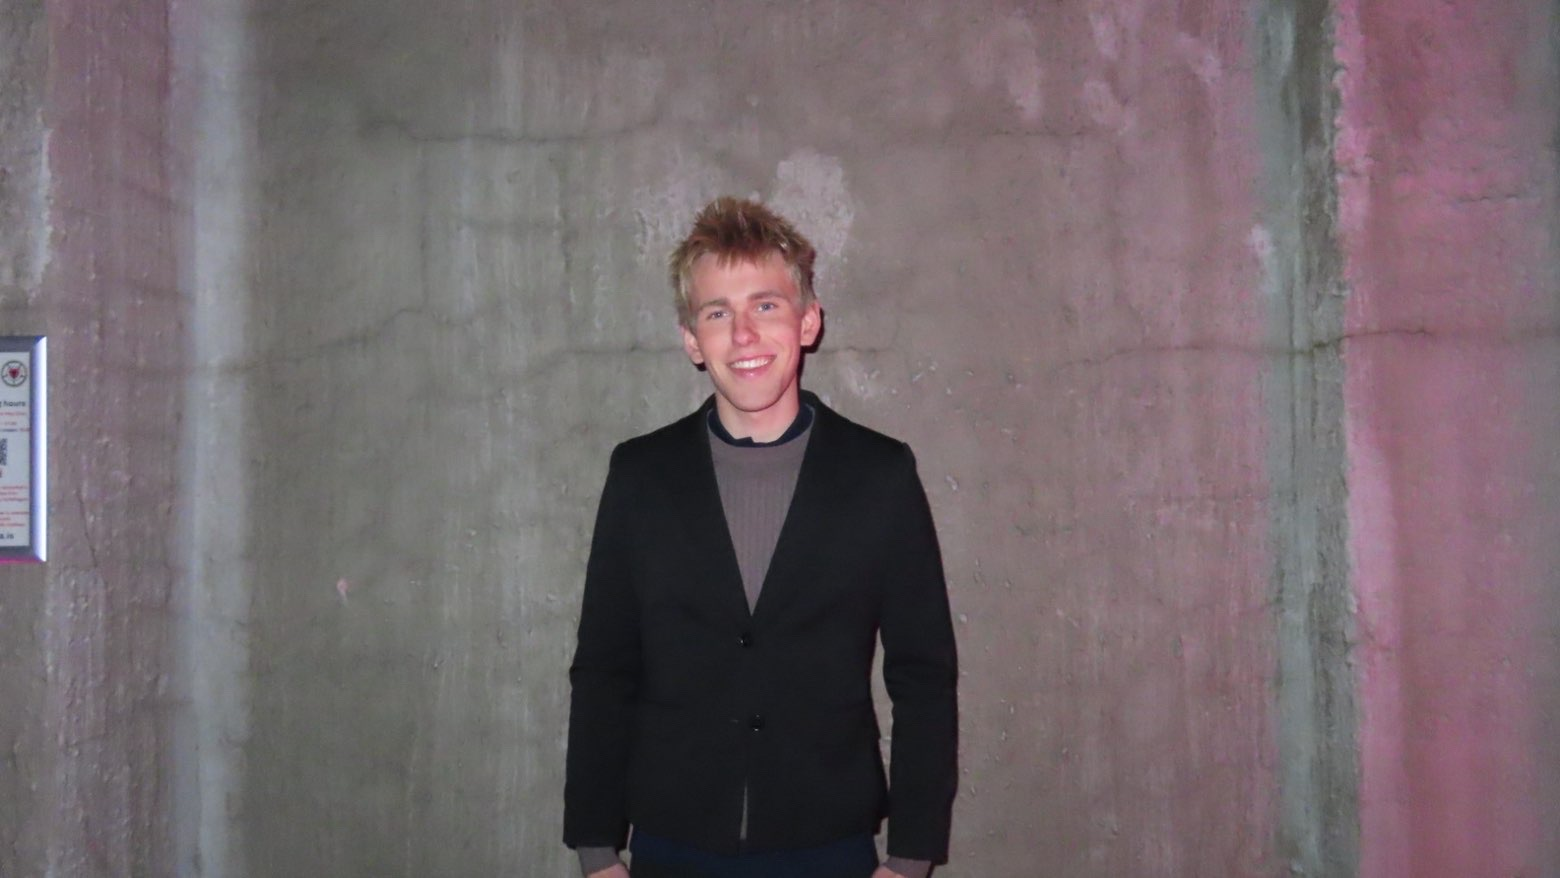
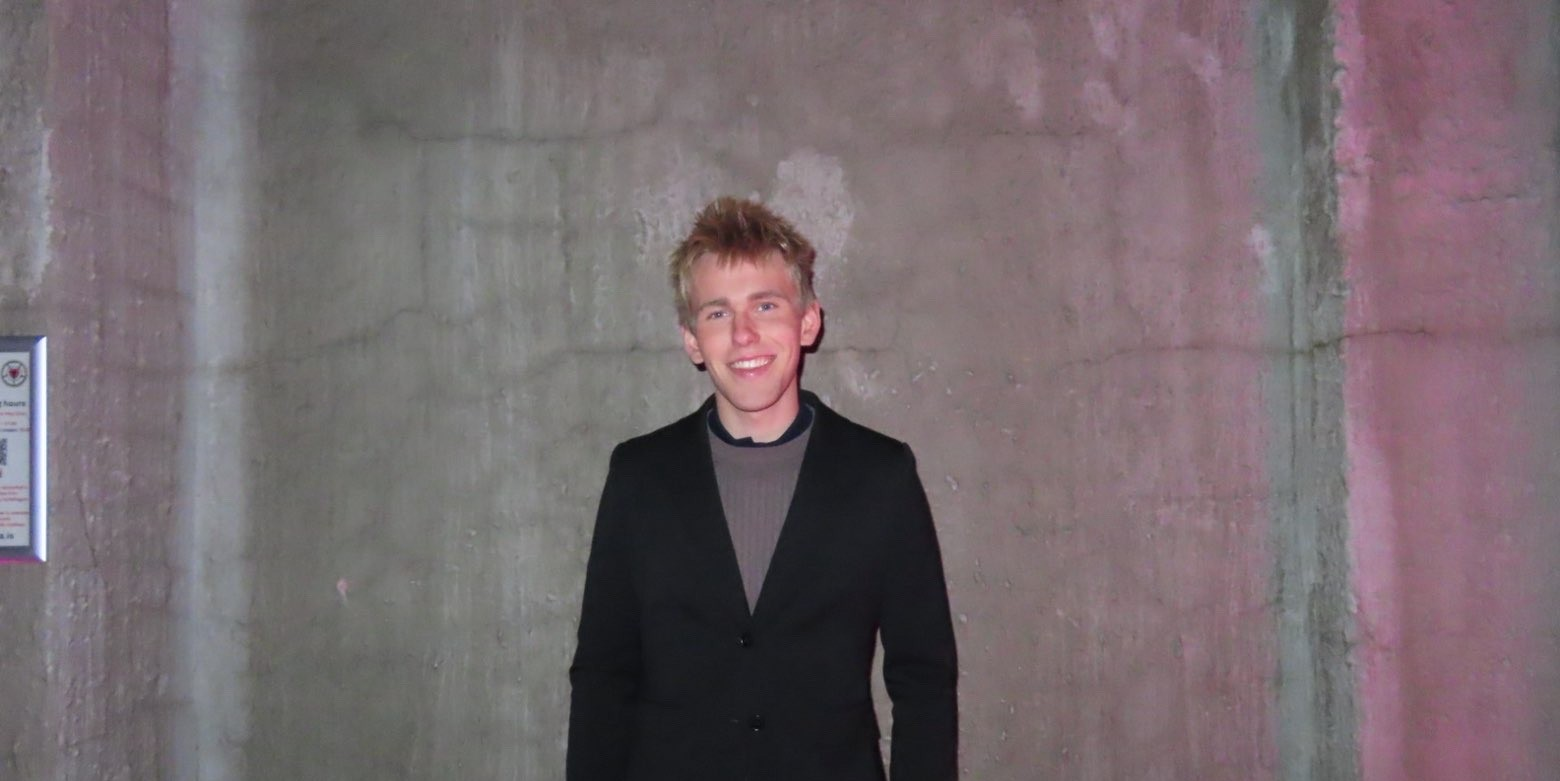
Crop founder portrait to waist level

diff --git a/app/um-okkur/page.tsx b/app/um-okkur/page.tsx
@@ -39,7 +39,7 @@ export default function UmOkkurPage() {
             src="/images/gunnar-portrait.jpg"
             alt="Gunnar Þór Sigurðarson"
             width={1560}
-            height={878}
+            height={781}
             className="h-full w-full object-cover"
           />
         </div>
